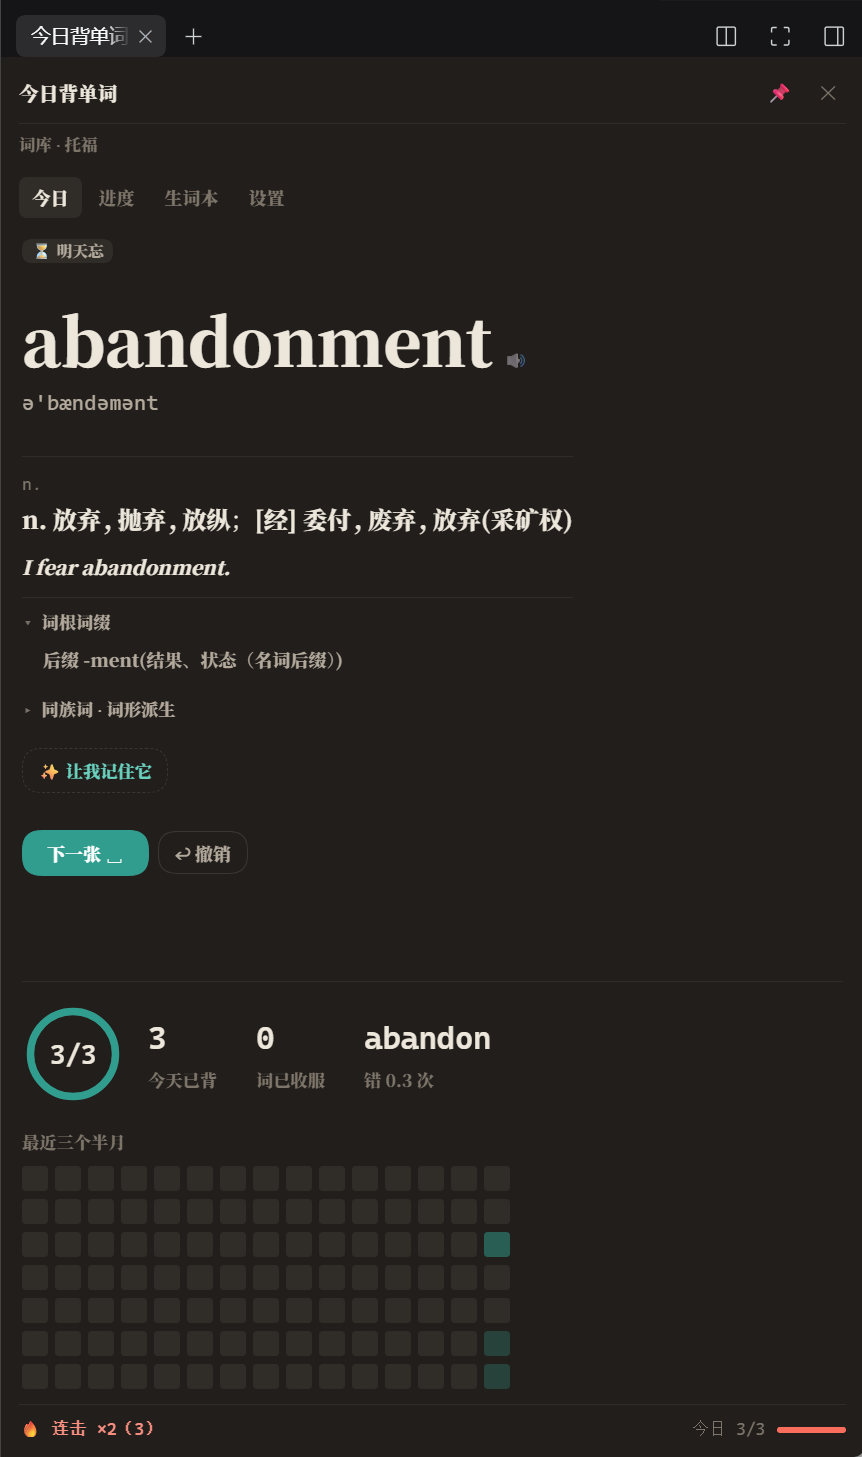
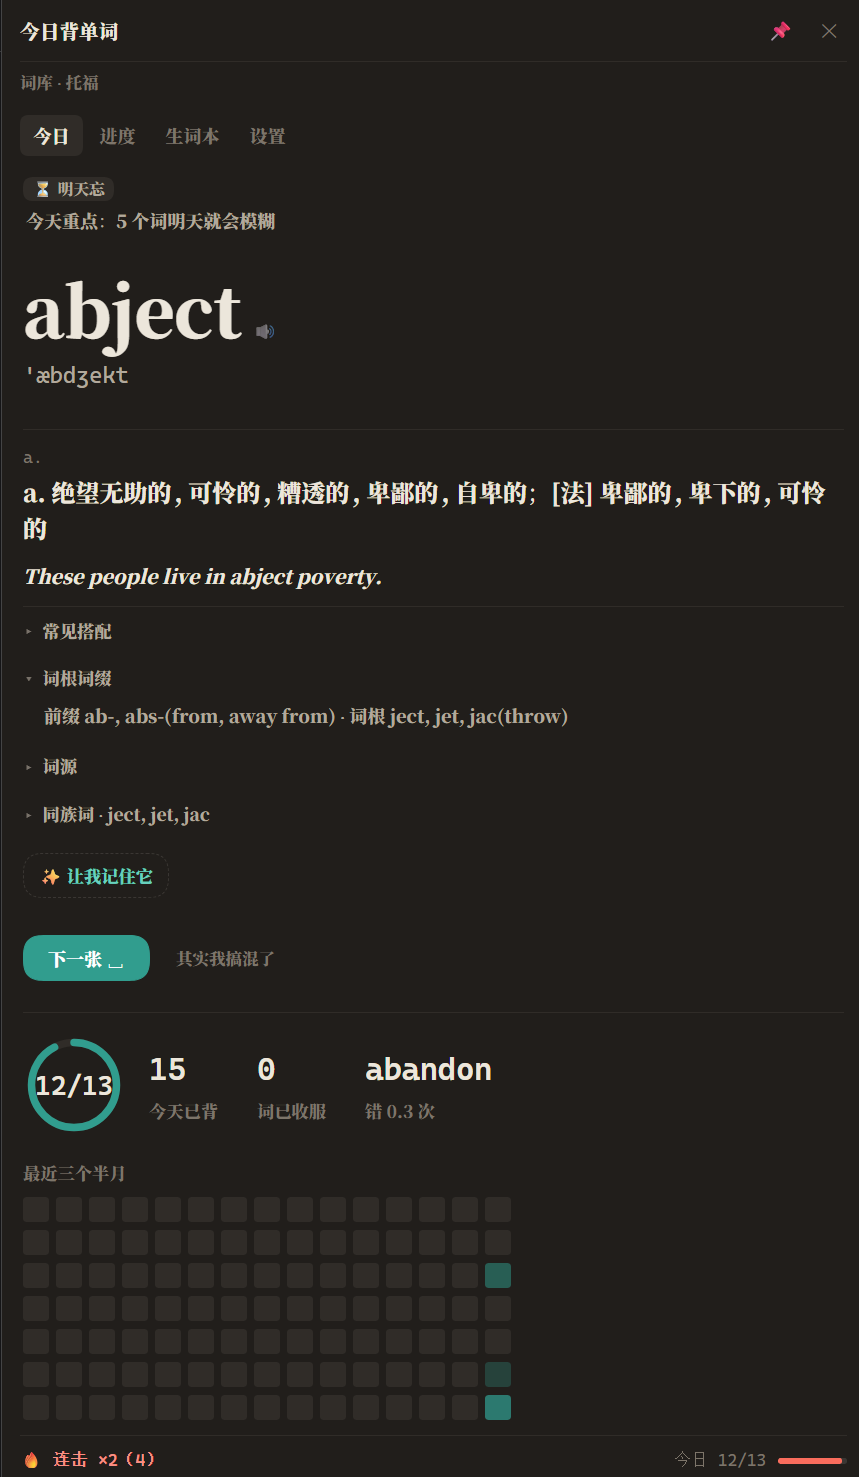
chore(assets): 市场预览图 2 换成五项全展开的卡片背面（abject）
上一个版本（abandonment）只露了词根词缀/同族词/例句三行；
换成 abject 之后常见搭配、词根词缀、词源、同族词、例句五项都在同一屏，
README 图注跟着改。

diff --git a/README.md b/README.md
@@ -79,9 +79,10 @@ python tools/install.py
 
 **② 右侧栏里的面板 · 卡片背面**（`sidebar.right.pane.tab`，四个页签：今日 / 进度 / 生词本 / 设置）：
 
-![右侧栏面板的卡片背面：词根词缀、同族词、例句](assets/screenshot-2-panel.png)
+![右侧栏面板的卡片背面：常见搭配、词根词缀、词源、同族词](assets/screenshot-2-panel.png)
 
-> 这张特意截的是背面 —— 词根词缀、同族词、例句，0.2.8 之后卡片才有这些。
+> 这张特意截的是背面 —— 常见搭配、词根词缀、词源、同族词、例句，
+> 0.2.8 之后卡片才逐项加上这些（`abject`，五项全在）。
 
 | 位置 | 内容 |
 |---|---|
